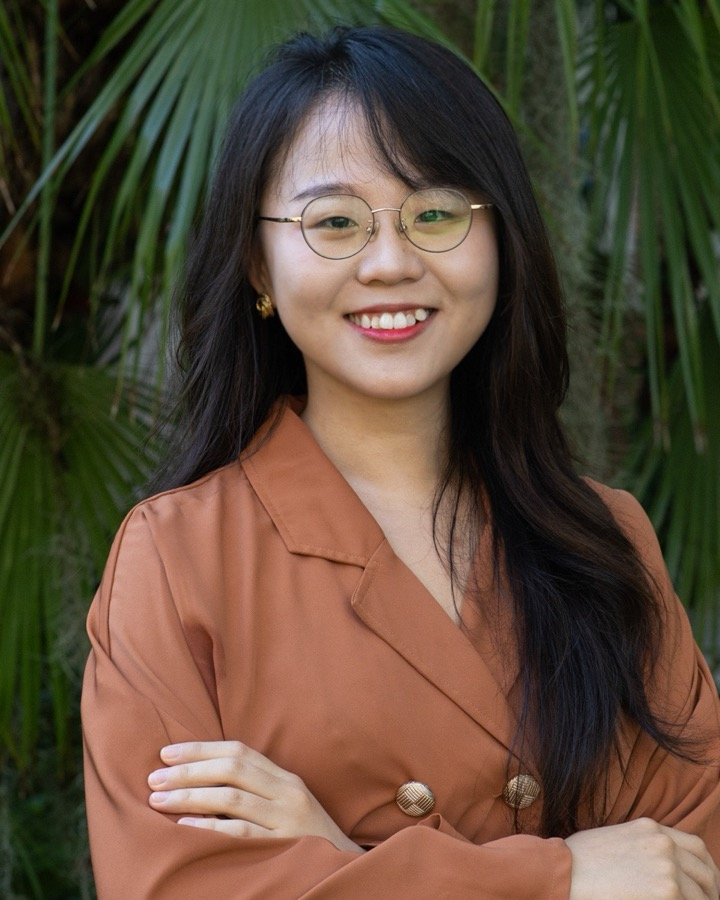
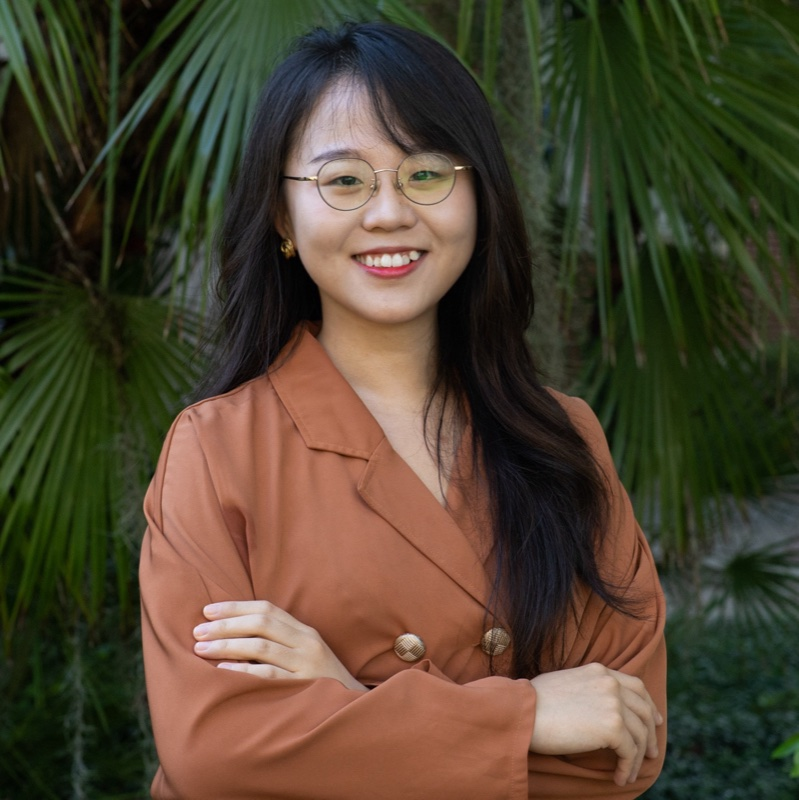
Home: square portrait

diff --git a/index.html b/index.html
@@ -8,7 +8,7 @@
   <link rel="icon" href="favicon.ico">
   <link rel="preconnect" href="https://fonts.googleapis.com">
   <link rel="stylesheet" href="https://fonts.googleapis.com/css2?family=Mukta:wght@400;600&family=Spectral:ital,wght@0,400;0,500;1,400&display=swap">
-  <link rel="stylesheet" href="style.css?v=8">
+  <link rel="stylesheet" href="style.css?v=9">
 </head>
 <body>
 

diff --git a/personal.html b/personal.html
@@ -7,7 +7,7 @@
   <link rel="icon" href="favicon.ico">
   <link rel="preconnect" href="https://fonts.googleapis.com">
   <link rel="stylesheet" href="https://fonts.googleapis.com/css2?family=Mukta:wght@400;600&family=Spectral:ital,wght@0,400;0,500;1,400&display=swap">
-  <link rel="stylesheet" href="style.css?v=8">
+  <link rel="stylesheet" href="style.css?v=9">
 </head>
 <body>
 

diff --git a/research.html b/research.html
@@ -7,7 +7,7 @@
   <link rel="icon" href="favicon.ico">
   <link rel="preconnect" href="https://fonts.googleapis.com">
   <link rel="stylesheet" href="https://fonts.googleapis.com/css2?family=Mukta:wght@400;600&family=Spectral:ital,wght@0,400;0,500;1,400&display=swap">
-  <link rel="stylesheet" href="style.css?v=8">
+  <link rel="stylesheet" href="style.css?v=9">
 </head>
 <body>
 

diff --git a/teaching.html b/teaching.html
@@ -7,7 +7,7 @@
   <link rel="icon" href="favicon.ico">
   <link rel="preconnect" href="https://fonts.googleapis.com">
   <link rel="stylesheet" href="https://fonts.googleapis.com/css2?family=Mukta:wght@400;600&family=Spectral:ital,wght@0,400;0,500;1,400&display=swap">
-  <link rel="stylesheet" href="style.css?v=8">
+  <link rel="stylesheet" href="style.css?v=9">
 </head>
 <body>
 

diff --git a/style.css b/style.css
@@ -142,3 +142,4 @@ details.abstract p { margin: 0 0 12px; }
 .with-fig { display: grid; grid-template-columns: minmax(0, 1fr) minmax(220px, 340px); column-gap: 48px; align-items: start; }
 .with-fig > figure { margin: 4px 0 0; max-width: none; }
 @media (max-width: 760px) { .with-fig { display: block; } }
+.hero img { aspect-ratio: 1 / 1; object-fit: cover; }
